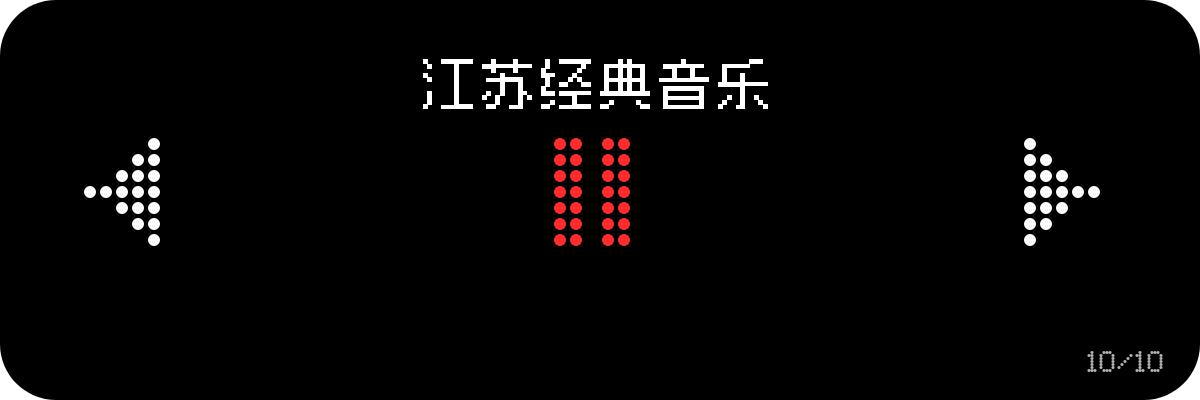
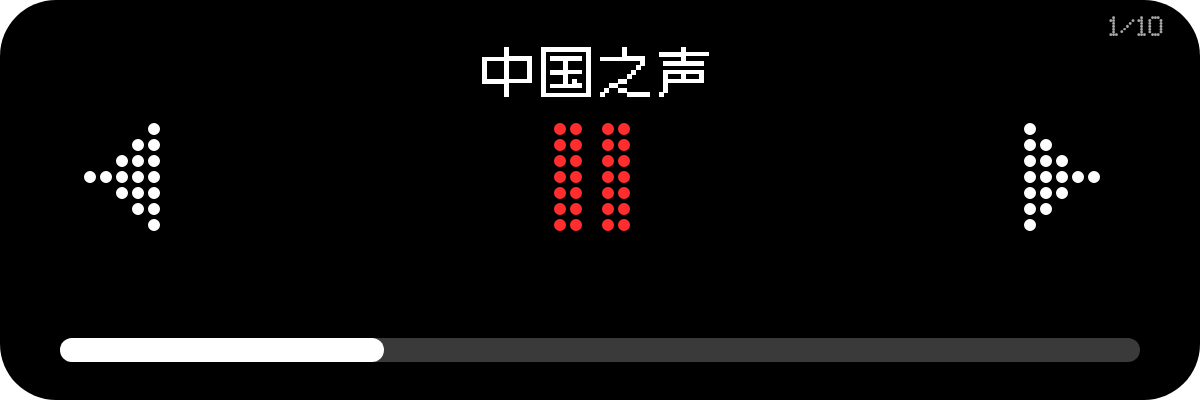
feat: 增加音量条（MediaPlayer.setVolume 控制组件自身音量，不改系统音量）

diff --git a/src/com/example/radiowidget/RadioService.java b/src/com/example/radiowidget/RadioService.java
@@ -42,6 +42,7 @@ public class RadioService extends Service {
     public static final String ACTION_TOGGLE = "com.example.radiowidget.TOGGLE";
     public static final String ACTION_NEXT = "com.example.radiowidget.NEXT";
     public static final String ACTION_PREV = "com.example.radiowidget.PREV";
+    public static final String ACTION_VOLUME = "com.example.radiowidget.VOLUME";
     // 调试用：把当前绘制的位图导出成 PNG，便于无需桌面即可预览 UI
     public static final String ACTION_PREVIEW = "com.example.radiowidget.PREVIEW";
 
@@ -55,6 +56,7 @@ public class RadioService extends Service {
     private MediaPlayer player;
     private int currentIndex = 0;
     private boolean isPlaying = false; // 是否处于“正在播放”状态（区别于 loading）
+    private float volume = 1.0f; // 组件自身音量 0~1（用 setVolume，不碰系统音量）
 
     private Typeface zpixTypeface; // 中文点阵
     private Typeface ndotTypeface; // Nothing Ndot（英文/数字）
@@ -104,6 +106,13 @@ public class RadioService extends Service {
             case ACTION_TOGGLE:
                 toggle();
                 break;
+            case ACTION_VOLUME:
+                volume = intent.getFloatExtra("level", volume);
+                if (player != null) {
+                    player.setVolume(volume, volume);
+                }
+                updateWidget();
+                break;
             case ACTION_START:
             default:
                 startForeground(1, buildNotification());
@@ -137,6 +146,7 @@ public class RadioService extends Service {
 
             player.setDataSource(this, Uri.parse(s.url), headers);
             player.setWakeMode(getApplicationContext(), PowerManager.PARTIAL_WAKE_LOCK);
+            player.setVolume(volume, volume); // 应用组件自身音量（不碰系统音量）
 
             player.setOnPreparedListener(mp -> {
                 errorCount = 0;
@@ -263,9 +273,27 @@ public class RadioService extends Service {
             views.setOnClickPendingIntent(R.id.btn_toggle, servicePi(ACTION_TOGGLE, 2));
             views.setOnClickPendingIntent(R.id.btn_next, servicePi(ACTION_NEXT, 3));
 
+            // 音量条 10 段点击区（0.1~1.0）
+            for (int i = 0; i < VOL_IDS.length; i++) {
+                views.setOnClickPendingIntent(VOL_IDS[i], volumePi(i));
+            }
+
             mgr.updateAppWidget(id, views);
         }
     }
+
+    private PendingIntent volumePi(int seg) {
+        Intent i = new Intent(this, RadioService.class);
+        i.setAction(ACTION_VOLUME);
+        i.putExtra("level", (seg + 1) / 10f);
+        return PendingIntent.getService(this, 100 + seg, i,
+                PendingIntent.FLAG_IMMUTABLE | PendingIntent.FLAG_UPDATE_CURRENT);
+    }
+
+    private static final int[] VOL_IDS = new int[]{
+            R.id.vol_0, R.id.vol_1, R.id.vol_2, R.id.vol_3, R.id.vol_4,
+            R.id.vol_5, R.id.vol_6, R.id.vol_7, R.id.vol_8, R.id.vol_9,
+    };
 
     private PendingIntent servicePi(String action, int code) {
         Intent i = new Intent(this, RadioService.class);
@@ -298,26 +326,48 @@ public class RadioService extends Service {
         namePaint.setTextSize(54f);
         namePaint.setTextAlign(Paint.Align.CENTER);
         namePaint.setAntiAlias(false); // 像素字体关闭抗锯齿，保持点阵锐利
-        c.drawText(s.name, W / 2f, 100f, namePaint);
+        c.drawText(s.name, W / 2f, 88f, namePaint);
 
-        // 上一台 / 下一台 箭头（左右，白，小圆点，与播放键同一水平线）
-        drawDotPattern(c, 130, 200, PATTERN_PREV, 6, 16, Color.WHITE);
-        drawDotPattern(c, W - 130, 200, PATTERN_NEXT, 6, 16, Color.WHITE);
-
-        // 播放/暂停 图标（正中心，红，呼应指南针组件的红点）
-        String[] icon = isPlaying ? PATTERN_PAUSE : PATTERN_PLAY;
-        drawDotPattern(c, W / 2f, 200, icon, 6, 16, Color.rgb(255, 45, 45));
-
-        // 右下角台号（Ndot）
+        // 右上角台号（Ndot）
         Paint idxPaint = new Paint();
-        idxPaint.setColor(Color.argb(180, 255, 255, 255));
+        idxPaint.setColor(Color.argb(170, 255, 255, 255));
         idxPaint.setTypeface(ndotTypeface);
-        idxPaint.setTextSize(30f);
+        idxPaint.setTextSize(28f);
         idxPaint.setTextAlign(Paint.Align.RIGHT);
         idxPaint.setAntiAlias(true);
-        c.drawText((currentIndex + 1) + "/" + Station.LIST.length, W - 36f, H - 28f, idxPaint);
+        c.drawText((currentIndex + 1) + "/" + Station.LIST.length, W - 36f, 36f, idxPaint);
+
+        // 上一台 / 下一台 箭头（左右，白，小圆点）
+        drawDotPattern(c, 130, 185, PATTERN_PREV, 6, 16, Color.WHITE);
+        drawDotPattern(c, W - 130, 185, PATTERN_NEXT, 6, 16, Color.WHITE);
+
+        // 播放/暂停 图标（居中，红，呼应指南针组件的红点）
+        String[] icon = isPlaying ? PATTERN_PAUSE : PATTERN_PLAY;
+        drawDotPattern(c, W / 2f, 185, icon, 6, 16, Color.rgb(255, 45, 45));
+
+        // 音量条（底部横条：轨道 + 按比例填充）
+        drawVolumeBar(c);
 
         return bmp;
+    }
+
+    /** 底部音量条：深灰轨道 + 白色填充（长度 = volume 比例）。 */
+    private void drawVolumeBar(Canvas c) {
+        float left = 60f, right = W - 60f;
+        float top = 338f, bottom = 362f; // 高 24px，中心 y=350
+
+        Paint track = new Paint();
+        track.setColor(Color.rgb(58, 58, 58));
+        track.setAntiAlias(true);
+        c.drawRoundRect(left, top, right, bottom, 12f, 12f, track);
+
+        float fillRight = left + (right - left) * volume;
+        if (fillRight > left + 2f) {
+            Paint fill = new Paint();
+            fill.setColor(Color.WHITE);
+            fill.setAntiAlias(true);
+            c.drawRoundRect(left, top, fillRight, bottom, 12f, 12f, fill);
+        }
     }
 
     /** 用圆点矩阵绘制一个图标（Nothing 点阵风）。pattern 里 'X' 代表一个点。 */

diff --git a/README.md b/README.md
@@ -11,7 +11,8 @@
 - **点阵图标**：上一台 `◀` / 播放 `▶` / 暂停 `❚❚` / 下一台 `▶`（红白圆点拼成）
 - **系统 MediaPlayer** 播放 HLS 流，前台服务 + 唤醒锁，后台/锁屏不断流
 - **出错自动切台**：某个流失效时自动跳到下一台
-- **点击分区**：左=上一台，中=播放/暂停，右=下一台
+- **音量条**：底部横条分 10 段点击调节，控制**组件自身音量**（`MediaPlayer.setVolume`，不改系统音量）
+- **点击分区**：上区左=上一台 / 中=播放暂停 / 右=下一台；下区=音量条
 
 ## 🖼 预览
 
